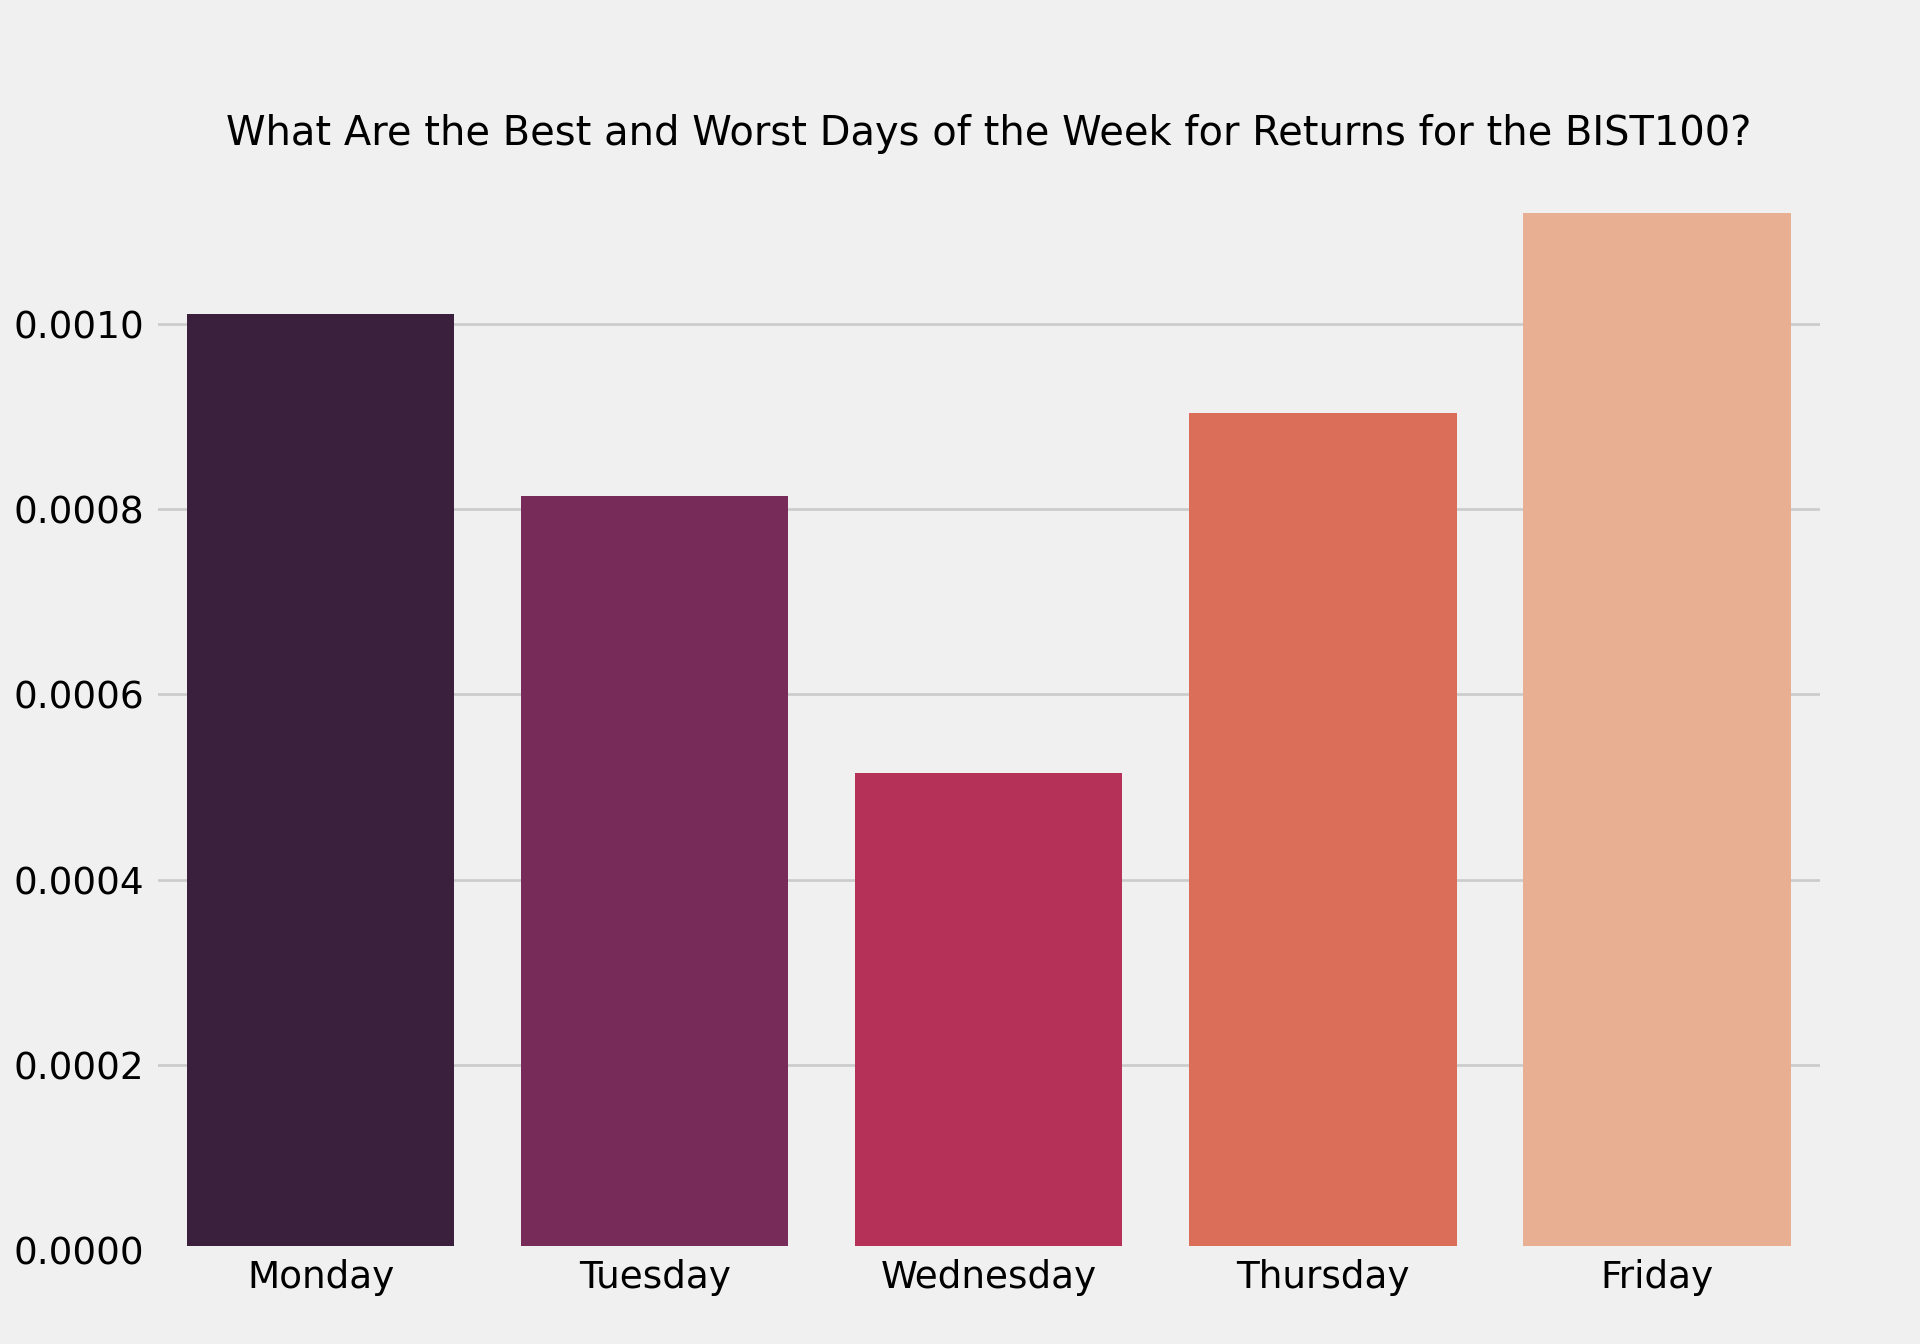
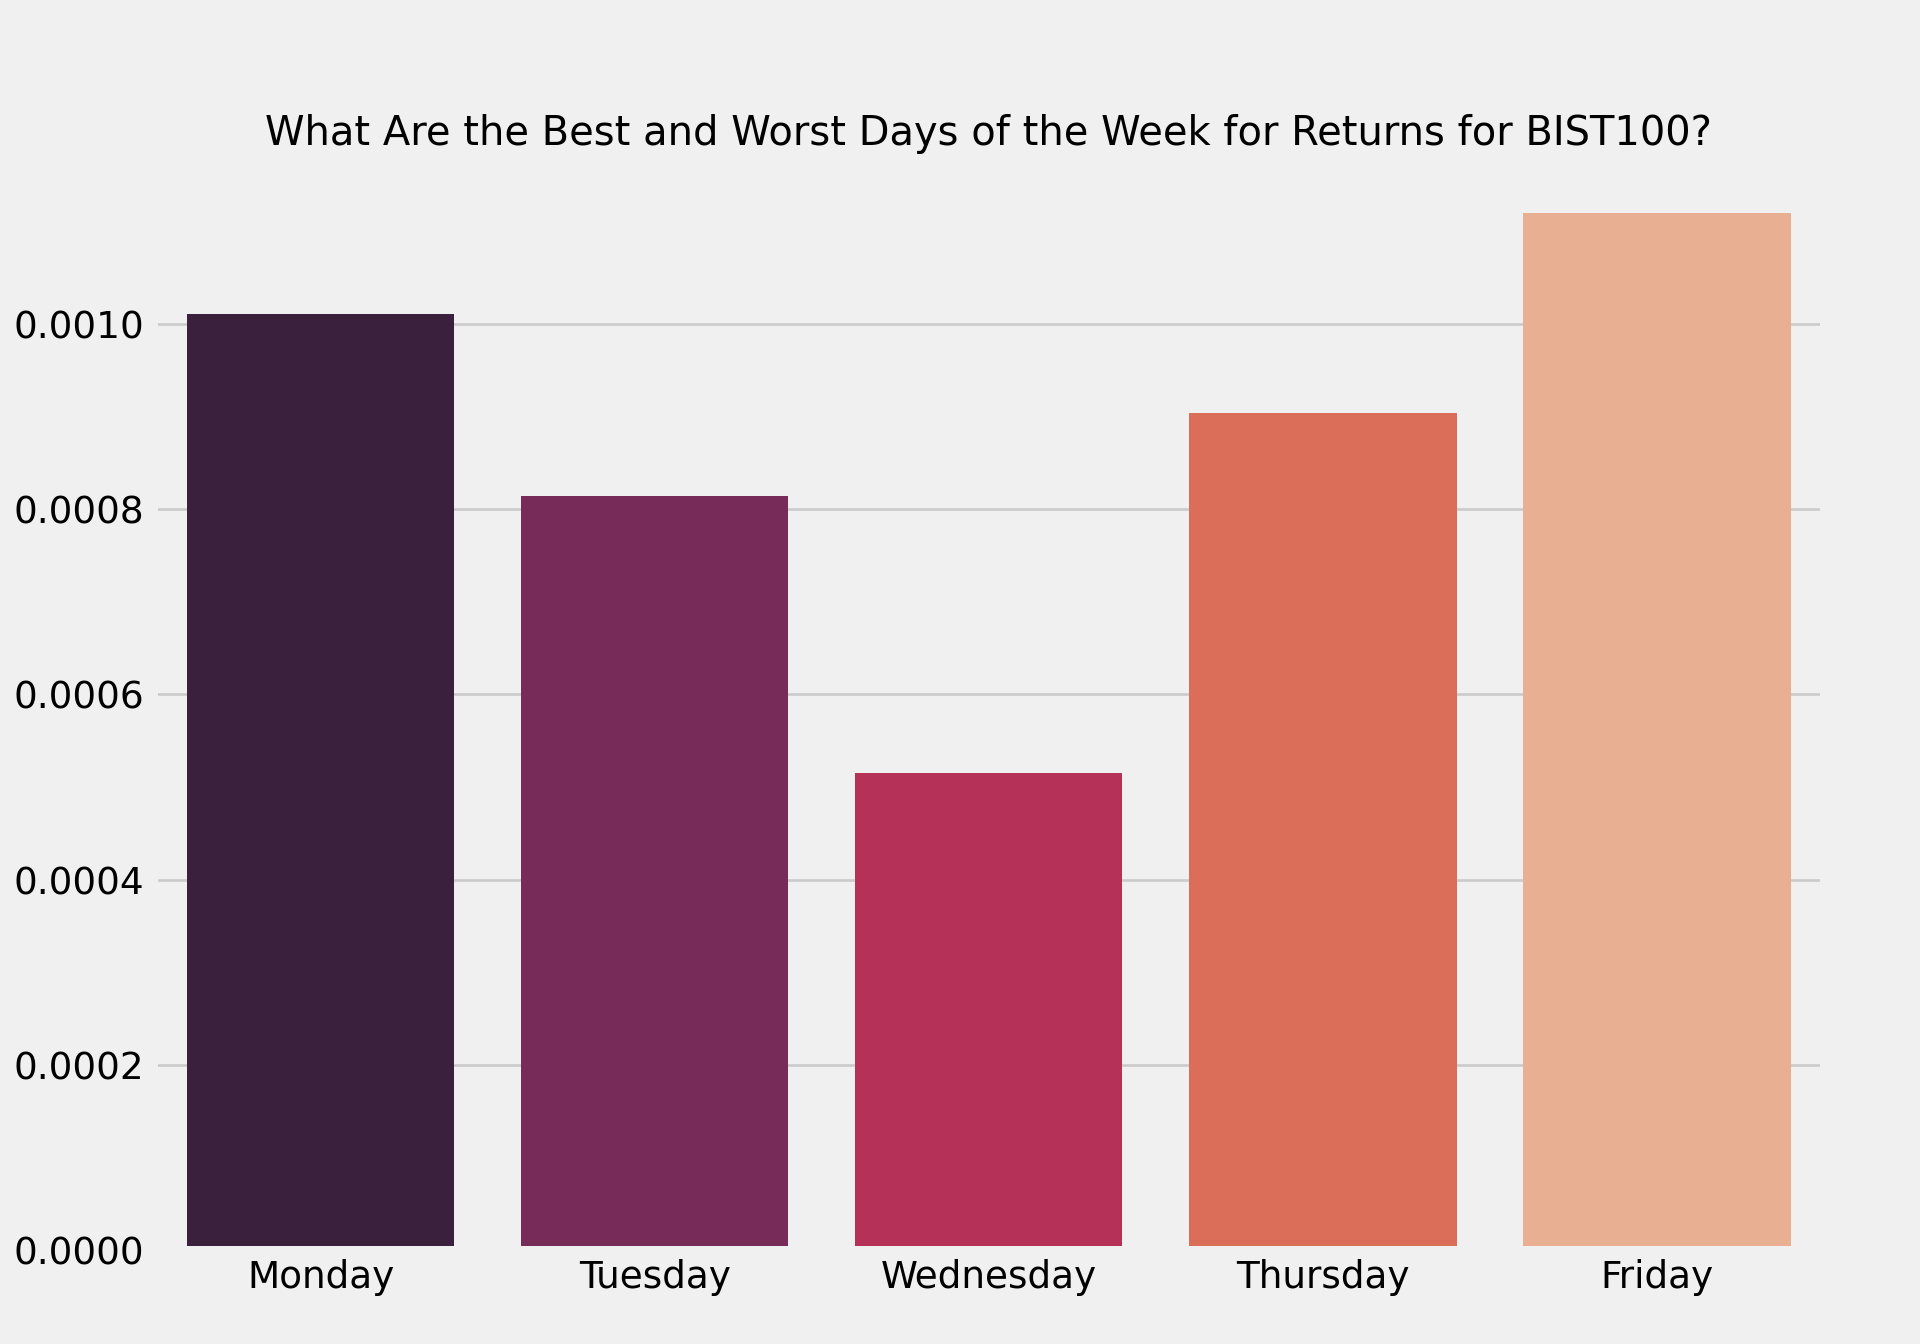
.

Changed region(s): [[0.125, 0.0625, 0.9062, 0.125]]

diff --git a/docs/posts/20221102_post1/index.html b/docs/posts/20221102_post1/index.html
@@ -472,7 +472,7 @@ P_{t+1} = Price\ of\ the\ stock\ at\ time\ t+1
 <span id="cb6-8"><a href="#cb6-8" aria-hidden="true" tabindex="-1"></a><span class="fu">scale_fill_gradient</span>(<span class="at">low =</span> <span class="st">"orange"</span>, <span class="at">high =</span> <span class="st">"red"</span>) <span class="sc">+</span></span>
 <span id="cb6-9"><a href="#cb6-9" aria-hidden="true" tabindex="-1"></a><span class="fu">scale_y_continuous</span>(<span class="at">labels =</span> comma) <span class="sc">+</span></span>
 <span id="cb6-10"><a href="#cb6-10" aria-hidden="true" tabindex="-1"></a><span class="fu">labs</span>(</span>
-<span id="cb6-11"><a href="#cb6-11" aria-hidden="true" tabindex="-1"></a>    <span class="at">title =</span> <span class="st">"What Are the Best and Worst Days of the Week for Returns for the BIST100?"</span></span>
+<span id="cb6-11"><a href="#cb6-11" aria-hidden="true" tabindex="-1"></a>    <span class="at">title =</span> <span class="st">"What Are the Best and Worst Days of the Week for Returns for BIST100?"</span></span>
 <span id="cb6-12"><a href="#cb6-12" aria-hidden="true" tabindex="-1"></a>)</span></code><button title="Copy to Clipboard" class="code-copy-button"><i class="bi"></i></button></pre></div>
 <div class="cell-output-display">
 <p><img src="index_files/figure-html/unnamed-chunk-10-1.png" class="img-fluid" width="672"></p>
@@ -606,7 +606,7 @@ Categories (5, object): ['Monday', 'Tuesday', 'Wednesday', 'Thursday', 'Friday']
 <span id="cb17-7"><a href="#cb17-7" aria-hidden="true" tabindex="-1"></a>    palette <span class="op">=</span> <span class="st">'rocket'</span></span>
 <span id="cb17-8"><a href="#cb17-8" aria-hidden="true" tabindex="-1"></a>)</span>
 <span id="cb17-9"><a href="#cb17-9" aria-hidden="true" tabindex="-1"></a>bplt.set_title(</span>
-<span id="cb17-10"><a href="#cb17-10" aria-hidden="true" tabindex="-1"></a>    label <span class="op">=</span> <span class="st">'What Are the Best and Worst Days of the Week for Returns for the BIST100?'</span>,</span>
+<span id="cb17-10"><a href="#cb17-10" aria-hidden="true" tabindex="-1"></a>    label <span class="op">=</span> <span class="st">'What Are the Best and Worst Days of the Week for Returns for BIST100?'</span>,</span>
 <span id="cb17-11"><a href="#cb17-11" aria-hidden="true" tabindex="-1"></a>    fontsize <span class="op">=</span> <span class="dv">15</span></span>
 <span id="cb17-12"><a href="#cb17-12" aria-hidden="true" tabindex="-1"></a>)</span>
 <span id="cb17-13"><a href="#cb17-13" aria-hidden="true" tabindex="-1"></a>bplt.set_xlabel(xlabel <span class="op">=</span> <span class="st">''</span>)</span>

diff --git a/docs/index.html b/docs/index.html
@@ -148,7 +148,7 @@ ul.task-list li input[type="checkbox"] {
 
 <div class="quarto-listing quarto-listing-container-default" id="listing-listing">
 <div class="list quarto-listing-default">
-<div class="quarto-post image-right" data-index="0" data-categories="Finance" data-listing-date-sort="1667336400000" data-listing-file-modified-sort="1667418623841" data-listing-reading-time-sort="2.93">
+<div class="quarto-post image-right" data-index="0" data-categories="Finance" data-listing-date-sort="1667336400000" data-listing-file-modified-sort="1667419016863" data-listing-reading-time-sort="2.92">
 <div class="thumbnail">
 <p><a href="./posts/20221102_post1/index.html"> <img src="./posts/20221102_post1/img.png" class="thumnail-image"> </a></p>
 </div>
